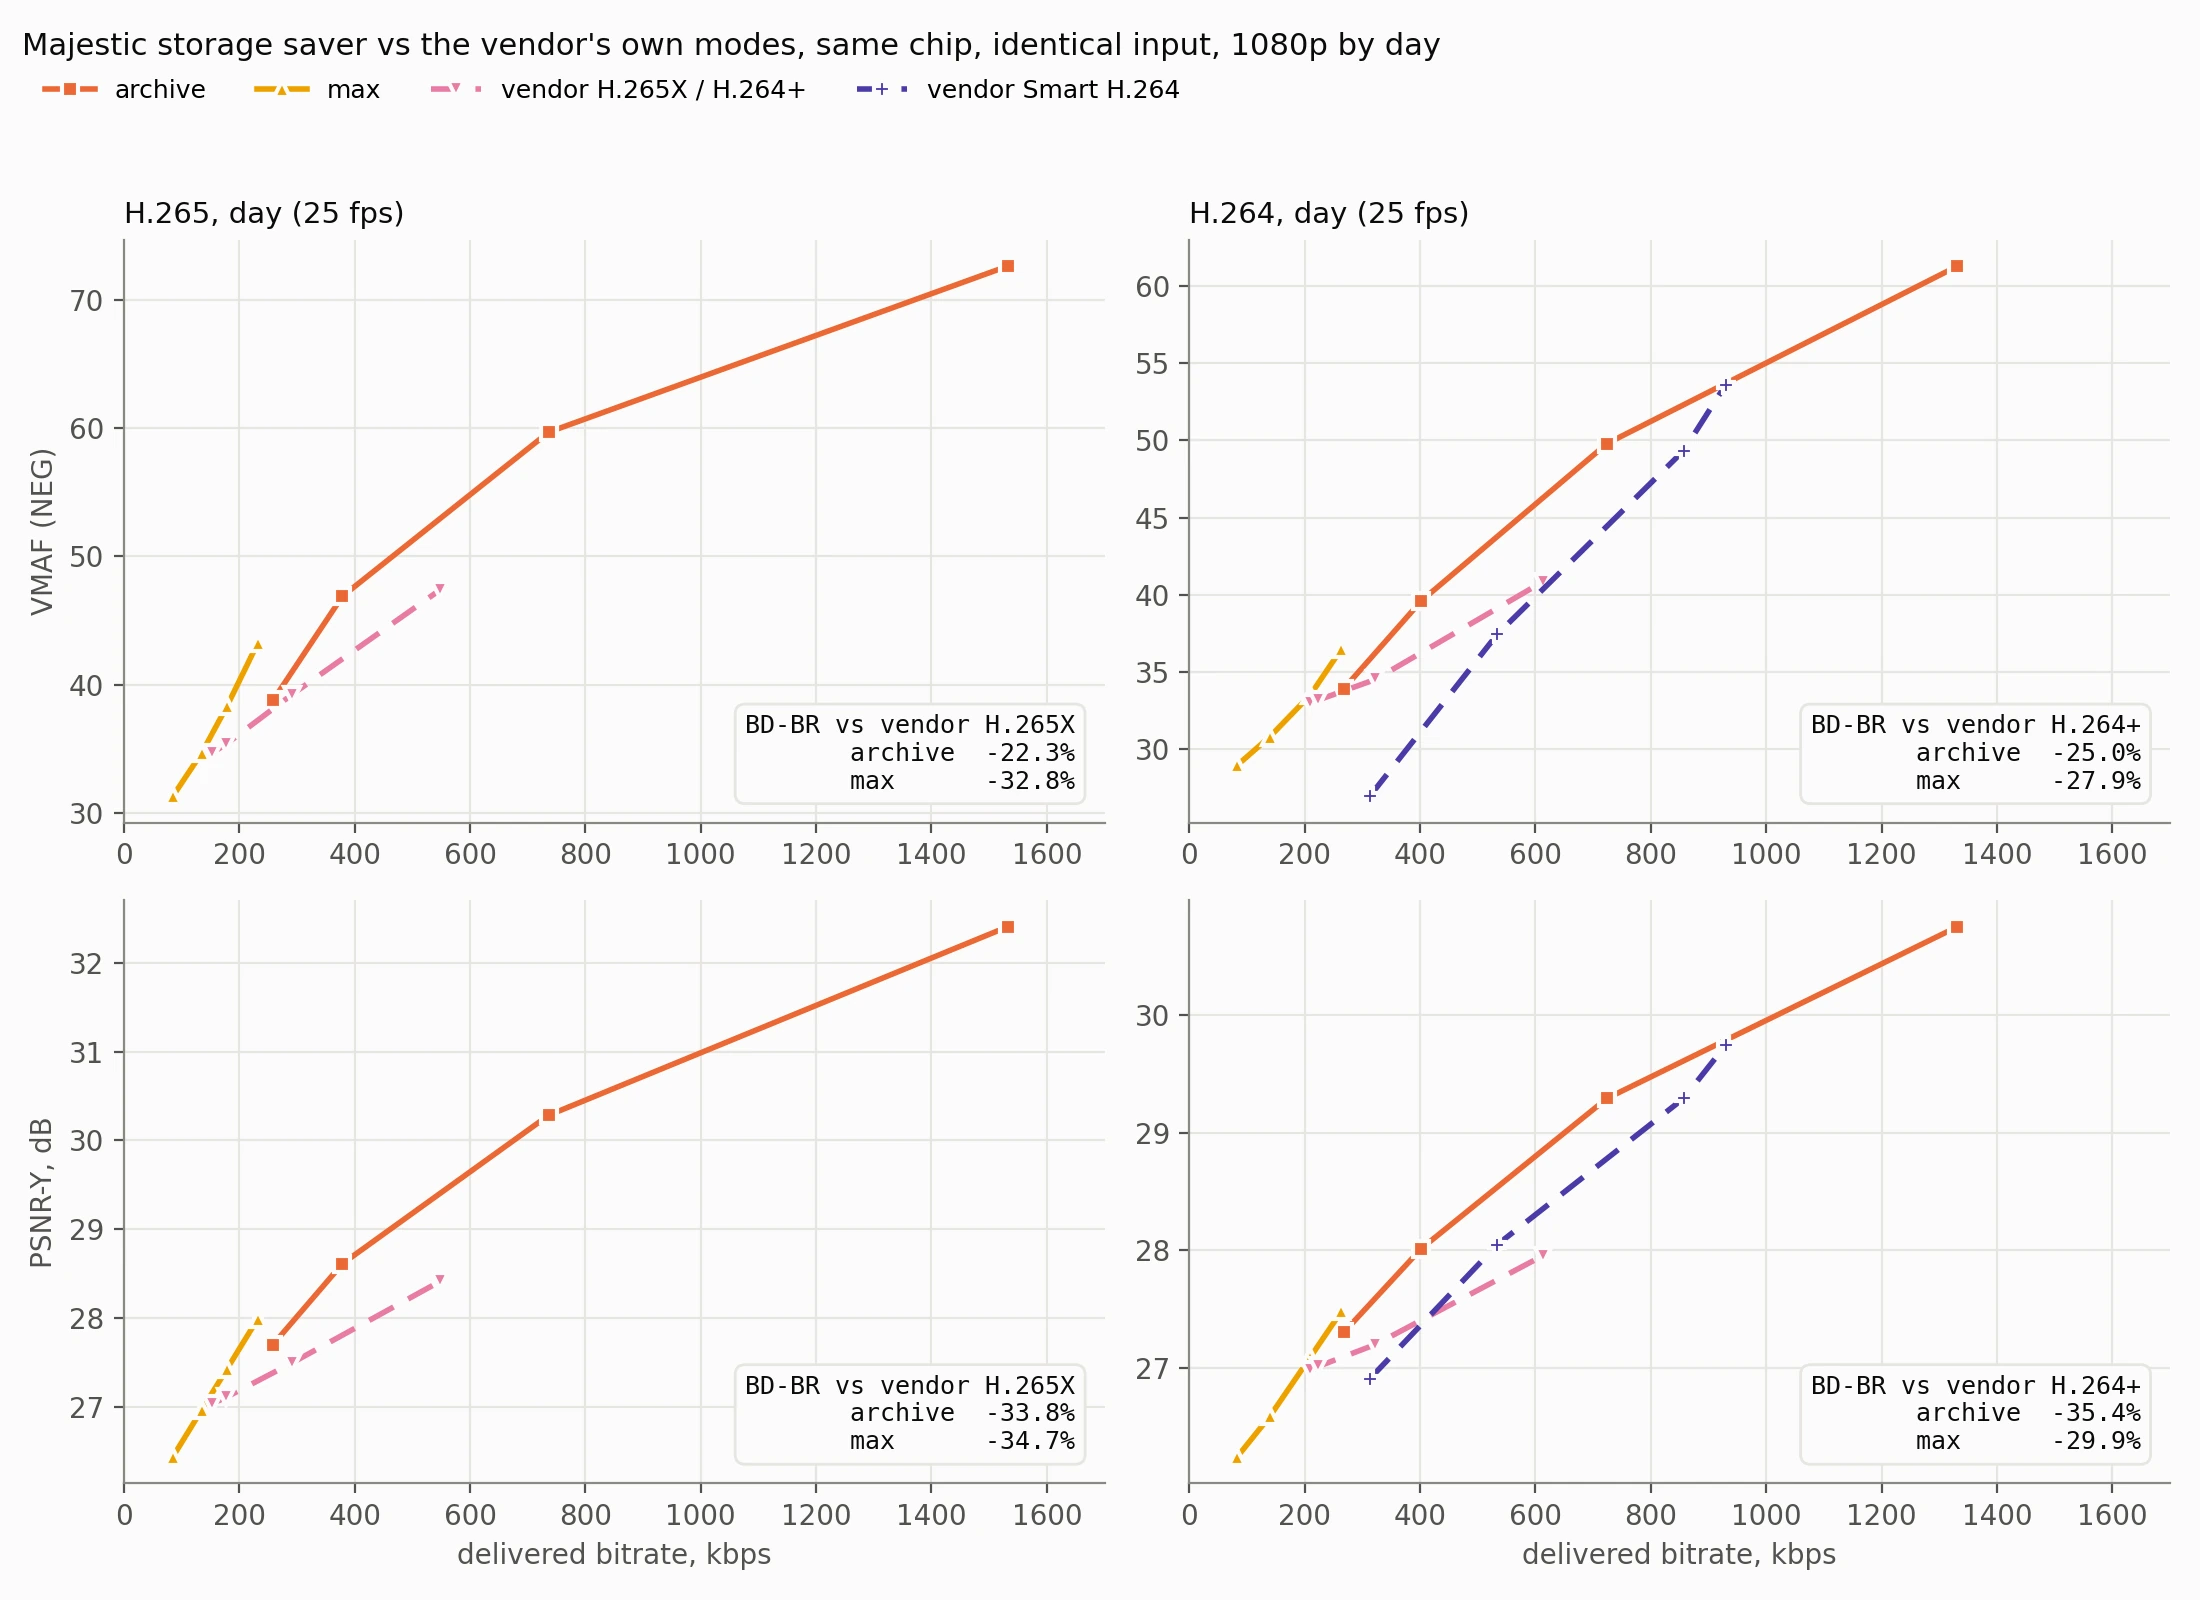
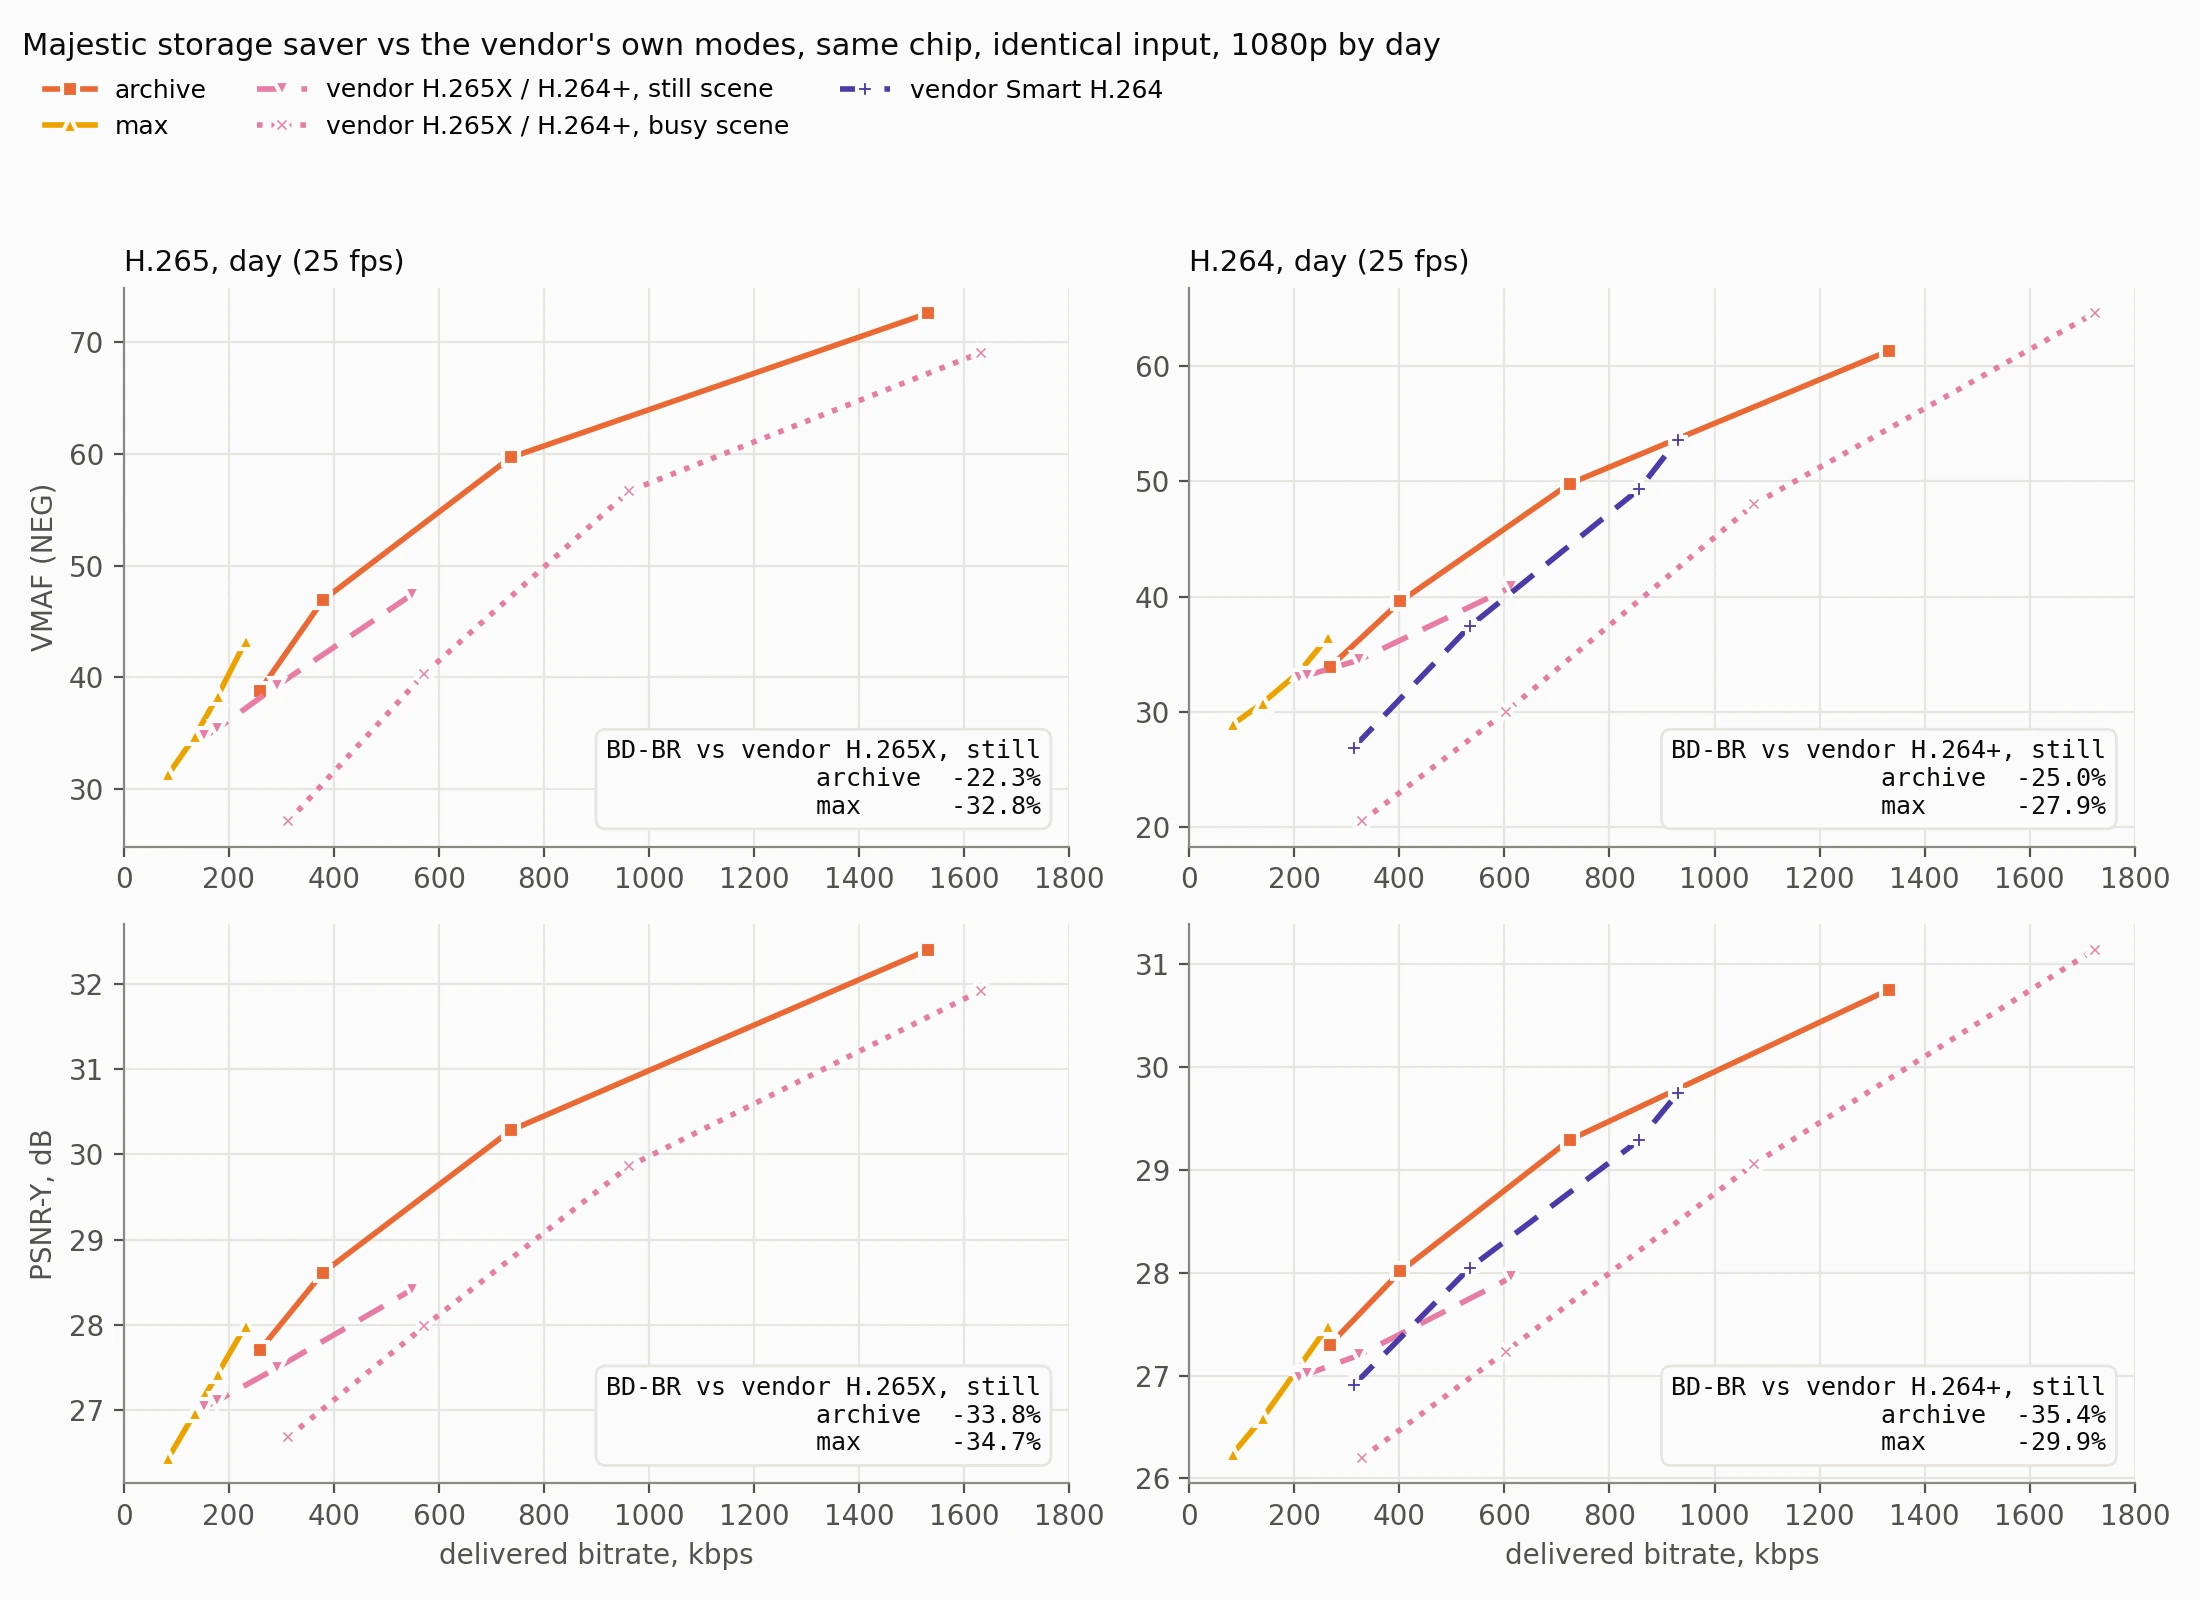
majestic: correct how Xiongmai's H.265X sets its bitrate (#585)
* majestic: correct how Xiongmai's H.265X sets its bitrate

The page said H.265X and H.264+ cut the configured bitrate to 31%. They do
not: the firmware ignores the configured bitrate and sets one from the
motion it sees, the same at every resolution (1600 kbps for a still main
stream, up to 3800 when busy). The 31% was that still-scene rate measured
against one camera's setting.

In a busy scene the same mode also stops skipping frames and lets QP rise to
51. That state is now cloned on the bench too, and the comparison gives
both: against the busy-scene recipe, where both sides keep every frame,
archive needs 36-40% fewer bits by day and 8-18% at night, and max wins
everywhere. The figure gains the busy-scene curves.

* majestic: label the vendor's two states in the results table; max's H.265 night win is VMAF-only

The main results table gave the vendor's mode one row, which read as the
busy state too; it now has a row per state, and the busy one shows the
18-32% extra bits by day the comparison section states. The claim that max
beats the vendor in either state by both metrics now names its exception:
H.265 at night against the busy state, where only VMAF overlaps and max keeps
fewer frames.

diff --git a/en/majestic-encoder-tuning.md b/en/majestic-encoder-tuning.md
@@ -264,7 +264,8 @@ means and how it was measured:
 | `archive` | -27% (-27%) | -21% (-25%) | -19% (-21%) | -27% (-28%) |
 | `strong` | -36% (-30%) | about as `archive`\* | -28% (-25%) | about as `archive`\* |
 | `max` | -53% (-51%†) | -46% (-40%†) | -53%† (-53%†) | -47% (-28%†) |
-| the vendor's H.265X / H.264+ | -13% (+2%) | -38% (-9%) | -6% (+5%†) | -32% (-1%†) |
+| the vendor's H.265X / H.264+, still-scene state | -13% (+2%) | -38% (-9%) | -6% (+5%†) | -32% (-1%†) |
+| the vendor's H.265X / H.264+, busy-scene state | +22% (+18%) | -15% (-15%) | +32% (+28%) | -16% (-11%) |
 | the vendor's Smart H.264 | | | -2% (-9%) | -17% (-19%) |
 
 *Hi3516EV300 with an IMX335, 1080p. 4 day clips at 25 fps and 4 night clips
@@ -307,35 +308,56 @@ its own firmware.
 - **H.265X / H.264+:**
   - a keyframe every 10 s, held as a long-term reference that later frames
     predict from;
-  - the bitrate cut to 31% of what is configured;
-  - QP 28-44, still-scene QP 33, motion sensitivity 30, keyframe offset 2;
-  - frames skipped above about 13.5% of the reduced rate.
+  - the configured bitrate ignored: the firmware sets one from how much motion
+    it sees, the same at every resolution. For the main stream that is 1600
+    kbps for a still scene, then 2000, 2400, 3800 and 3200 as motion grows;
+  - in a still or nearly still scene, QP 28-44, still-scene QP 33, motion
+    sensitivity 30, keyframe offset 2, and frames skipped above 13.5% of the
+    rate;
+  - once the scene is busy, no frame skipping, and QP 28-51.
 - **Smart H.264:** a keyframe every 1 s plus a background frame every 10 s,
   QP 30-51, and no frame skipping.
 
-![RD curves by day: archive and max against the vendor's H.265X, H.264+ and Smart H.264, by VMAF and by PSNR](../images/majestic-saver-rd-vendor.webp)
+![RD curves by day: archive and max against the vendor's H.265X and H.264+ in their still-scene and busy-scene states, and Smart H.264, by VMAF and by PSNR](../images/majestic-saver-rd-vendor.webp)
 
-Bitrate the storage saver needs for the same picture as the vendor's H.265X
-(on H.265) or H.264+ (on H.264), VMAF with PSNR in brackets:
+Both states were cloned and swept over the same rate ladder, since which one
+the vendor's camera is in depends on the scene. Bitrate the storage saver
+needs for the same picture as the vendor's H.265X (on H.265) or H.264+ (on
+H.264), VMAF with PSNR in brackets:
 
-| level | H.265 day | H.265 night | H.264 day | H.264 night |
+| level | against | H.265 day | H.265 night | H.264 day | H.264 night |
+|---|---|---|---|---|---|
+| `archive` | still-scene recipe | -22% (-34%) | +16% (-22%†) | -25% (-35%) | -1% (-32%†) |
+| `archive` | busy-scene recipe | -39% (-36%) | -8% (-15%) | -40% (-39%) | -13% (-18%) |
+| `max` | still-scene recipe | -33% (-35%) | -8% (-16%) | -28% (-30%) | -16% (-17%) |
+| `max` | busy-scene recipe | -68% (-62%) | -31% | -74% (-65%) | -37% (-27%†) |
+
+| frames kept | H.265 day | H.265 night | H.264 day | H.264 night |
 |---|---|---|---|---|
-| `archive` | -22% (-34%) | +16% (-22%†) | -25% (-35%) | -1% (-32%†) |
-| `max` | -33% (-35%) | -8% (-16%) | -28% (-30%) | -16% (-17%) |
-| frames kept: the vendor's mode | 50% | 51% | 53% | 54% |
-| frames kept: `max` | 59% | 57% | 56% | 56% |
+| the vendor's still-scene recipe | 50% | 51% | 53% | 54% |
+| the vendor's busy-scene recipe | 100% | 100% | 100% | 100% |
+| `max` | 59% | 57% | 56% | 56% |
+| `archive` | 100% | 100% | 100% | 100% |
 
-- **By day, both levels beat the vendor's mode on both metrics.** `archive`
-  keeps every frame and still needs a fifth to a third fewer bits.
-- **At night, VMAF and PSNR disagree about `archive`.** The vendor's mode
-  skips half the frames and VMAF hardly notices, so by VMAF `archive` needs
-  16% more bits than it on H.265. PSNR, which does count repeated frames, has
-  `archive` 22% cheaper. `archive` keeps every frame, so it is the choice
-  when motion at night matters.
-- **`max` beats the vendor's mode everywhere**, by both metrics, while keeping
-  more of the frames.
-- **The vendor's Smart H.264 saves the least** of anything measured: 2% by
-  day, 17% at night. Its 1 s keyframe interval keeps most of the cost the long
+- **By day, both levels beat the vendor's mode in either state, on both
+  metrics.** Against the busy-scene recipe, where both keep every frame,
+  `archive` needs 36-40% fewer bits.
+- **At night, VMAF and PSNR disagree about `archive` against the still-scene
+  recipe.** That recipe skips half the frames and VMAF hardly notices, so by
+  VMAF `archive` needs 16% more bits than it on H.265. PSNR, which does count
+  repeated frames, has `archive` 22% cheaper. Against the busy-scene recipe,
+  which keeps every frame, `archive` wins on both metrics.
+- **`max` beats the vendor's mode in either state, by both metrics, with one
+  exception: H.265 at night against the busy state.** There only VMAF can be
+  compared, because the PSNR curves share no range. `max` also keeps fewer
+  frames there (57% against 100%), and VMAF barely notices a repeated frame,
+  so that -31% is VMAF's word alone.
+- **In its busy state the vendor's mode needs more bits than our plain
+  defaults by day** (18-32% more on H.265 and H.264), and saves 11-16% at
+  night: dropping frame skipping and raising the QP ceiling leaves little of
+  the long GOP's gain.
+- **The vendor's Smart H.264 saves little** against our defaults: 2% by day,
+  17% at night. Its 1 s keyframe interval keeps most of the cost the long
   GOP removes.
 
 **`archive` keeps the picture at the quality an archive normally runs at.**
